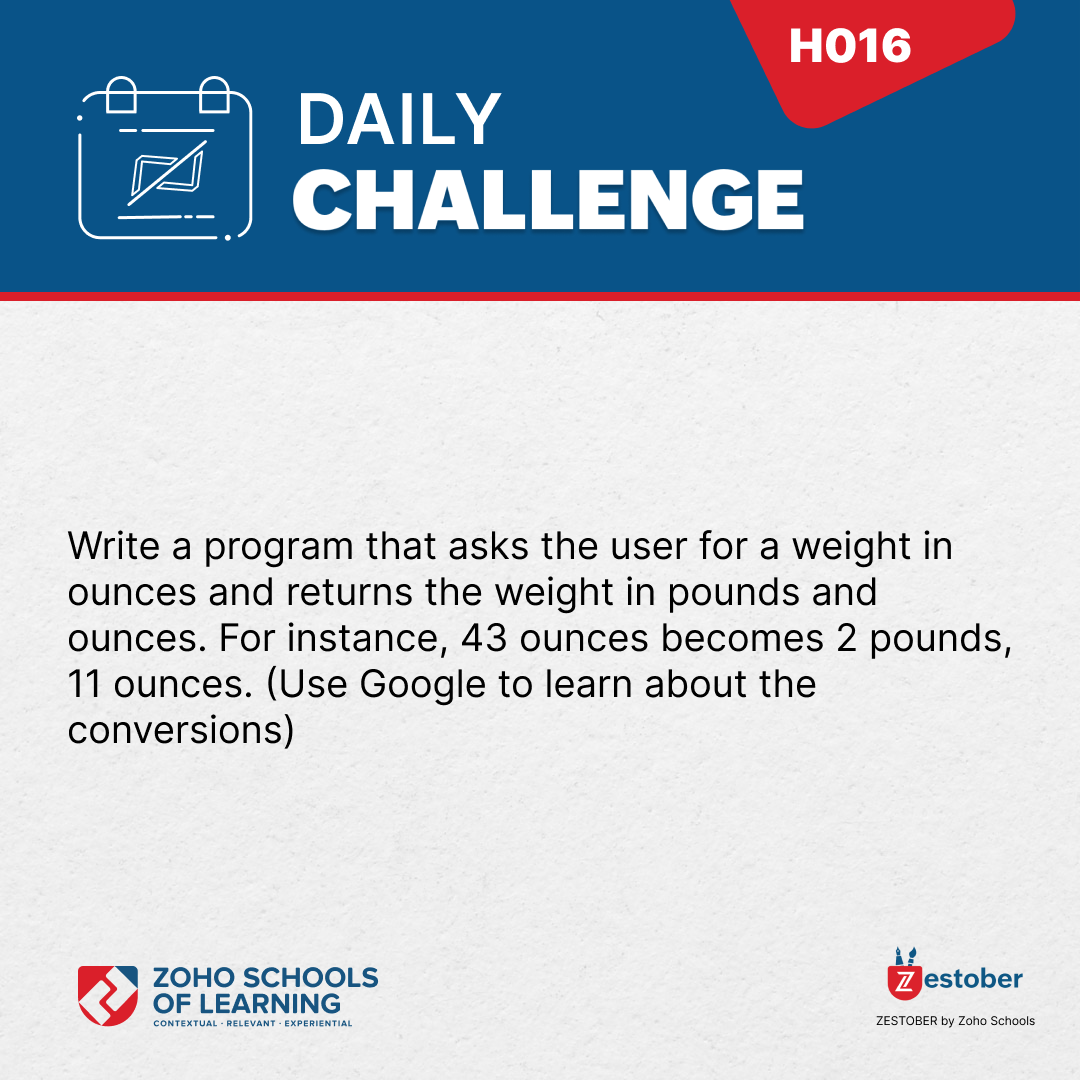
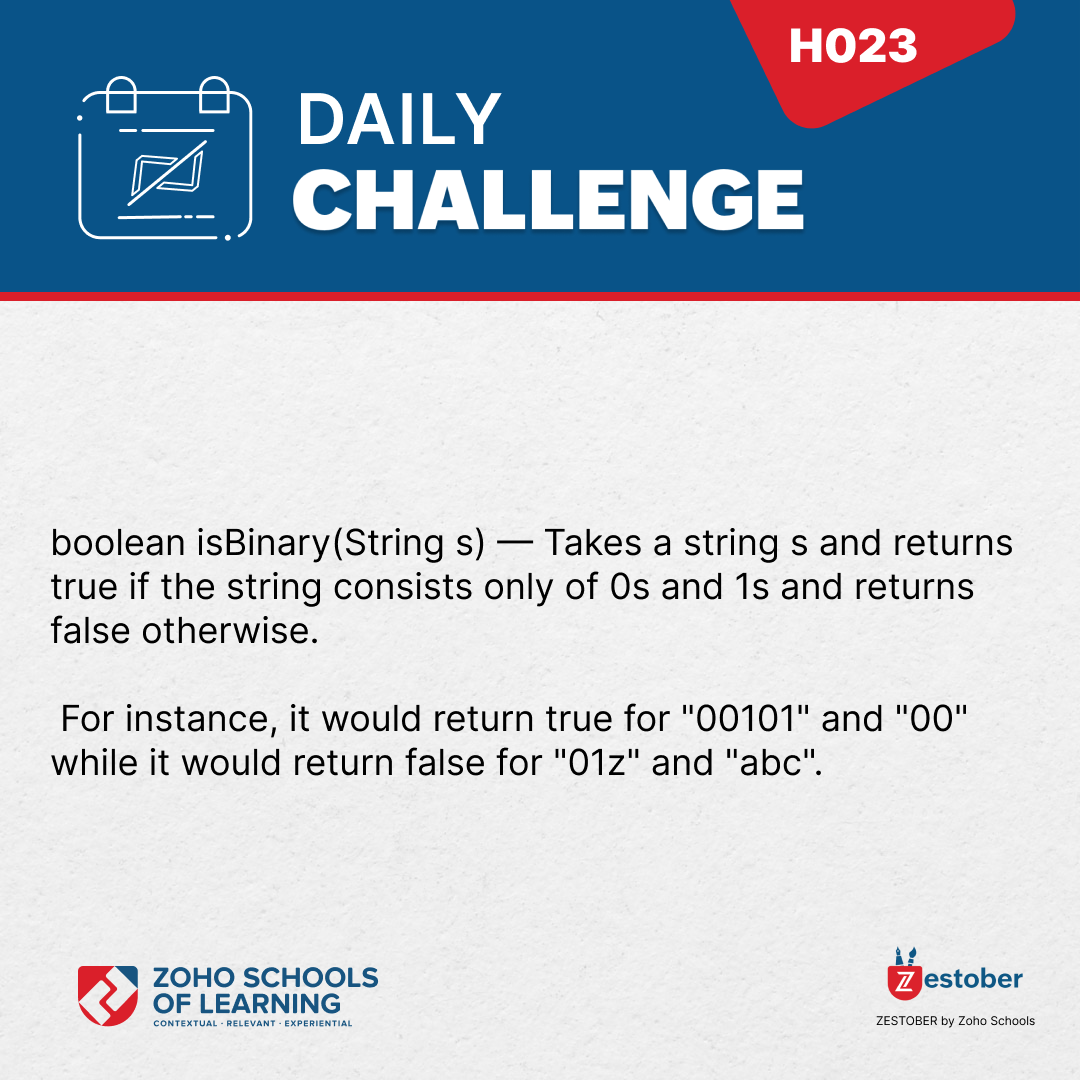
Using Recursion find the BinaryNumber and return True if any other return False without Using any inbuild method and any Loops

Changed region(s): [[0.0306, 0.4889, 0.9472, 0.7333], [0.7944, 0.0306, 0.8556, 0.0611]]

diff --git a/H023.java b/H023.java
@@ -1,0 +1,31 @@
+import java.util.Scanner;
+
+//To check all the special Characters also
+//and if its in the string return false
+//other wise return true;
+public class H023 {
+    public static void main(String[] args) {
+        String s;
+        Scanner scan = new Scanner(System.in);
+        System.out.println("Enter the Values :");
+        s = scan.next();
+        int flag = check(s, 0, 0);
+        System.out.println(isBinary(flag, s));
+        scan.close();
+    }
+
+    private static boolean isBinary(int flag, String s) {
+        if (flag == s.length())
+            return true;
+        return false;
+    }
+
+    private static int check(String s, int i, int flag) {
+        if (i > s.length() - 1)
+            return flag;
+        if (s.charAt(i) >= 48 && s.charAt(i) <= 49)
+            flag += 1;
+        i++;
+        return check(s, i, flag);
+    }
+}
